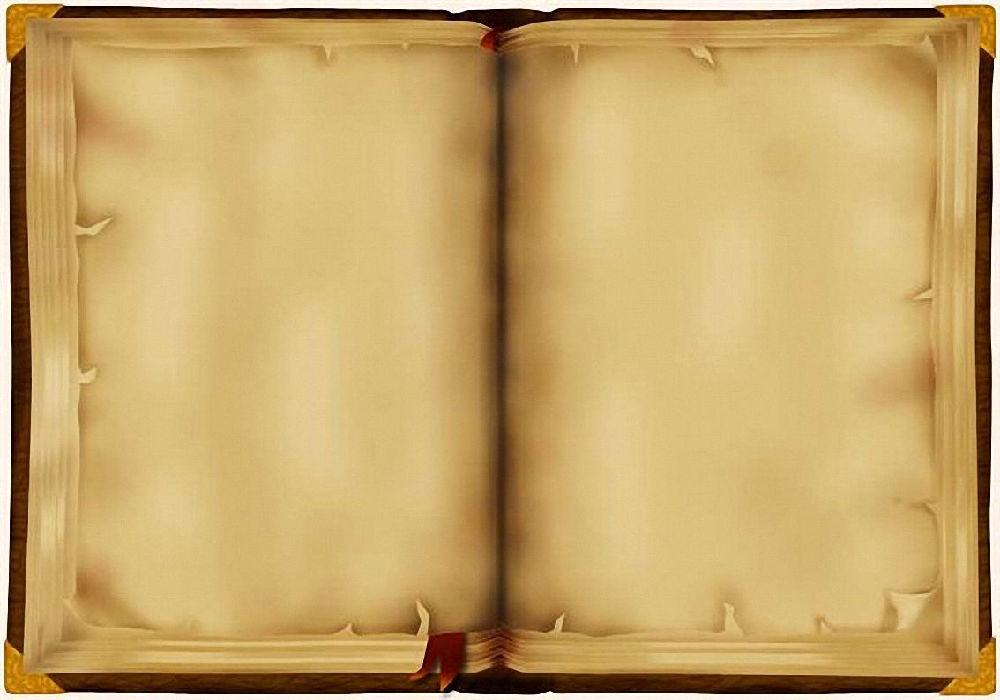
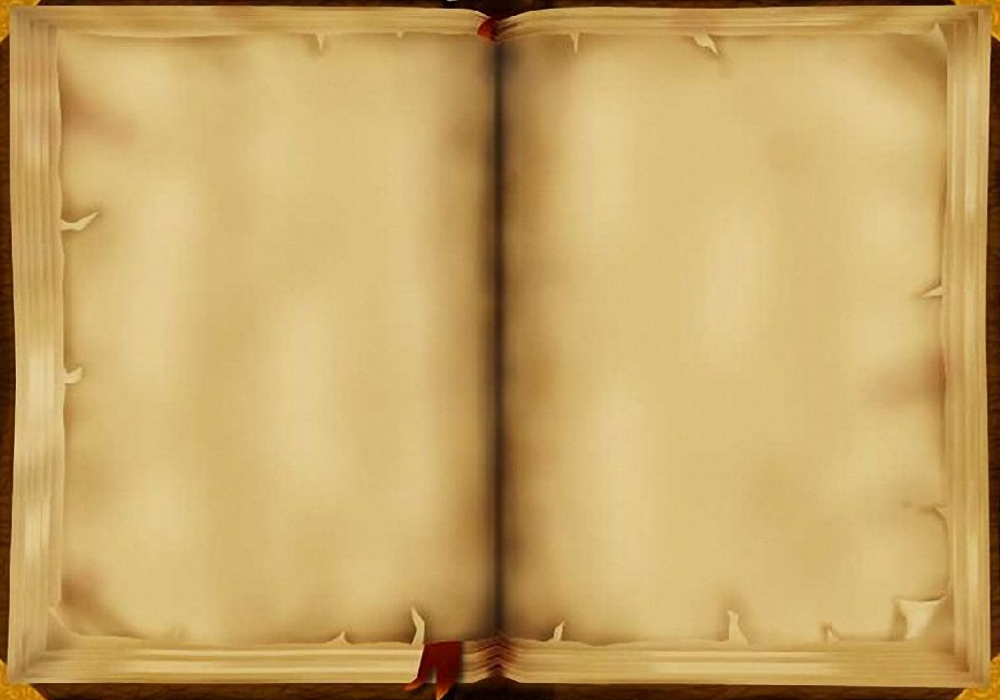
Background Updated. Exit Button added

Changed region(s): [[0.0, 0.0, 1.0, 1.0], [0.465, 0.18, 0.496, 0.21]]

diff --git a/src/Book/MainPage.java b/src/Book/MainPage.java
@@ -13,10 +13,11 @@ public class MainPage extends JPanel {
     SmallBtn doneAdd=new SmallBtn("Done",0);
     SmallBtn doneEdit=new SmallBtn("Done",0);
     SmallBtn cancel=new SmallBtn("Cancel",1);
+    SmallBtn exit=new SmallBtn("Exit",6);
 
     Title Header=new Title();
     Label label1=new Label("Name",100,150);
-    Label label2=new Label("Ingredients",200,210);
+    Label label2=new Label("Ingredients",200,225);
     Label label3=new Label("Procedure",675,75);
 
     ArrayList<String> foodName = new ArrayList<>();
@@ -32,6 +33,7 @@ public class MainPage extends JPanel {
         setLayout(null);
         setBounds(0,0,1000,700);
         setBackground(Color.WHITE);
+        //exit.setForeground(Color.black);
         try {
             Image img = ImageIO.read(getClass().getResource("bg.png"));
             background.setIcon(new ImageIcon(img));
@@ -44,8 +46,8 @@ public class MainPage extends JPanel {
         nameText.setBorder(BorderFactory.createLineBorder(Color.BLACK,1));
 
         foodList.setBounds(180,160,250,35);
-        ingredientsText.setBounds(100,270,350,300);
-        procedureText.setBounds(555,150,370,450);
+        ingredientsText.setBounds(100,300,350,275);
+        procedureText.setBounds(555,150,350,450);
         nameText.setBounds(180,160,250,35);
 
         nameText.setFont(new Font("Serif", Font.BOLD, 20));
@@ -57,10 +59,15 @@ public class MainPage extends JPanel {
         ingredientsText.setEditable(false);
         foodList.setEditable(true);
 
+        procedureText.setLineWrap(true);
+        procedureText.setWrapStyleWord(true);
+        ingredientsText.setLineWrap(true);
+        ingredientsText.setWrapStyleWord(true);
+
         procedureText.setOpaque(false);
         ingredientsText.setOpaque(false);
-        foodList.setOpaque(false);
         nameText.setOpaque(false);
+        foodList.setBackground(Color.WHITE);
         background.setBounds(0,0,1000,700);
 
         add(Header);
@@ -76,12 +83,27 @@ public class MainPage extends JPanel {
         add(doneAdd);
         add(doneEdit);
         add(cancel);
+        add(exit);
         add(nameText);
         add(background);
 
-        add("Omelette","Egg, Oill","Just cook");
+        add(
+                "Potato Chips",
+                "7 unpeeled medium potatoes (about 2 pounds)\n" +
+                        "2 quarts ice water\n" +
+                        "5 teaspoons salt\n" +
+                        "2 teaspoons garlic powder\n" +
+                        "1-1/2 teaspoons celery salt\n" +
+                        "1-1/2 teaspoons pepper\n" +
+                        "Oil for deep-fat frying\n",
+                "JUsing a vegetable peeler or metal cheese slicer, cut potatoes into very thin slices. Place in a large bowl; add ice water and salt. Soak for 30 minutes.\n" +
+                        "Drain potatoes; place on paper towels and pat dry. In a small bowl, combine the garlic powder, celery salt and pepper; set aside.\n" +
+                        "In a cast-iron or other heavy skillet, heat 1-1/2 in. oil to 375°. Fry potatoes in batches until golden brown, 3-4 minutes, stirring frequently.\n" +
+                        "Remove with a slotted spoon; drain on paper towels. Immediately sprinkle with seasoning mixture. Store in an airtight container.");
+
         add("Lentil","Onion,Lentil,Oil,Water","hfgkryeduf");
         view();
+
 
         foodList.addActionListener(e -> view());
 
@@ -196,6 +218,8 @@ public class MainPage extends JPanel {
             ingredientsText.setBorder(BorderFactory.createLineBorder(Color.WHITE,0));
 
         });
+
+        exit.addActionListener(e -> System.exit(1));
     }
 
     public void update(){

diff --git a/src/Main.java b/src/Main.java
@@ -4,5 +4,6 @@ public class Main {
         Window window=new Window();
 
 
+
     }
 }
